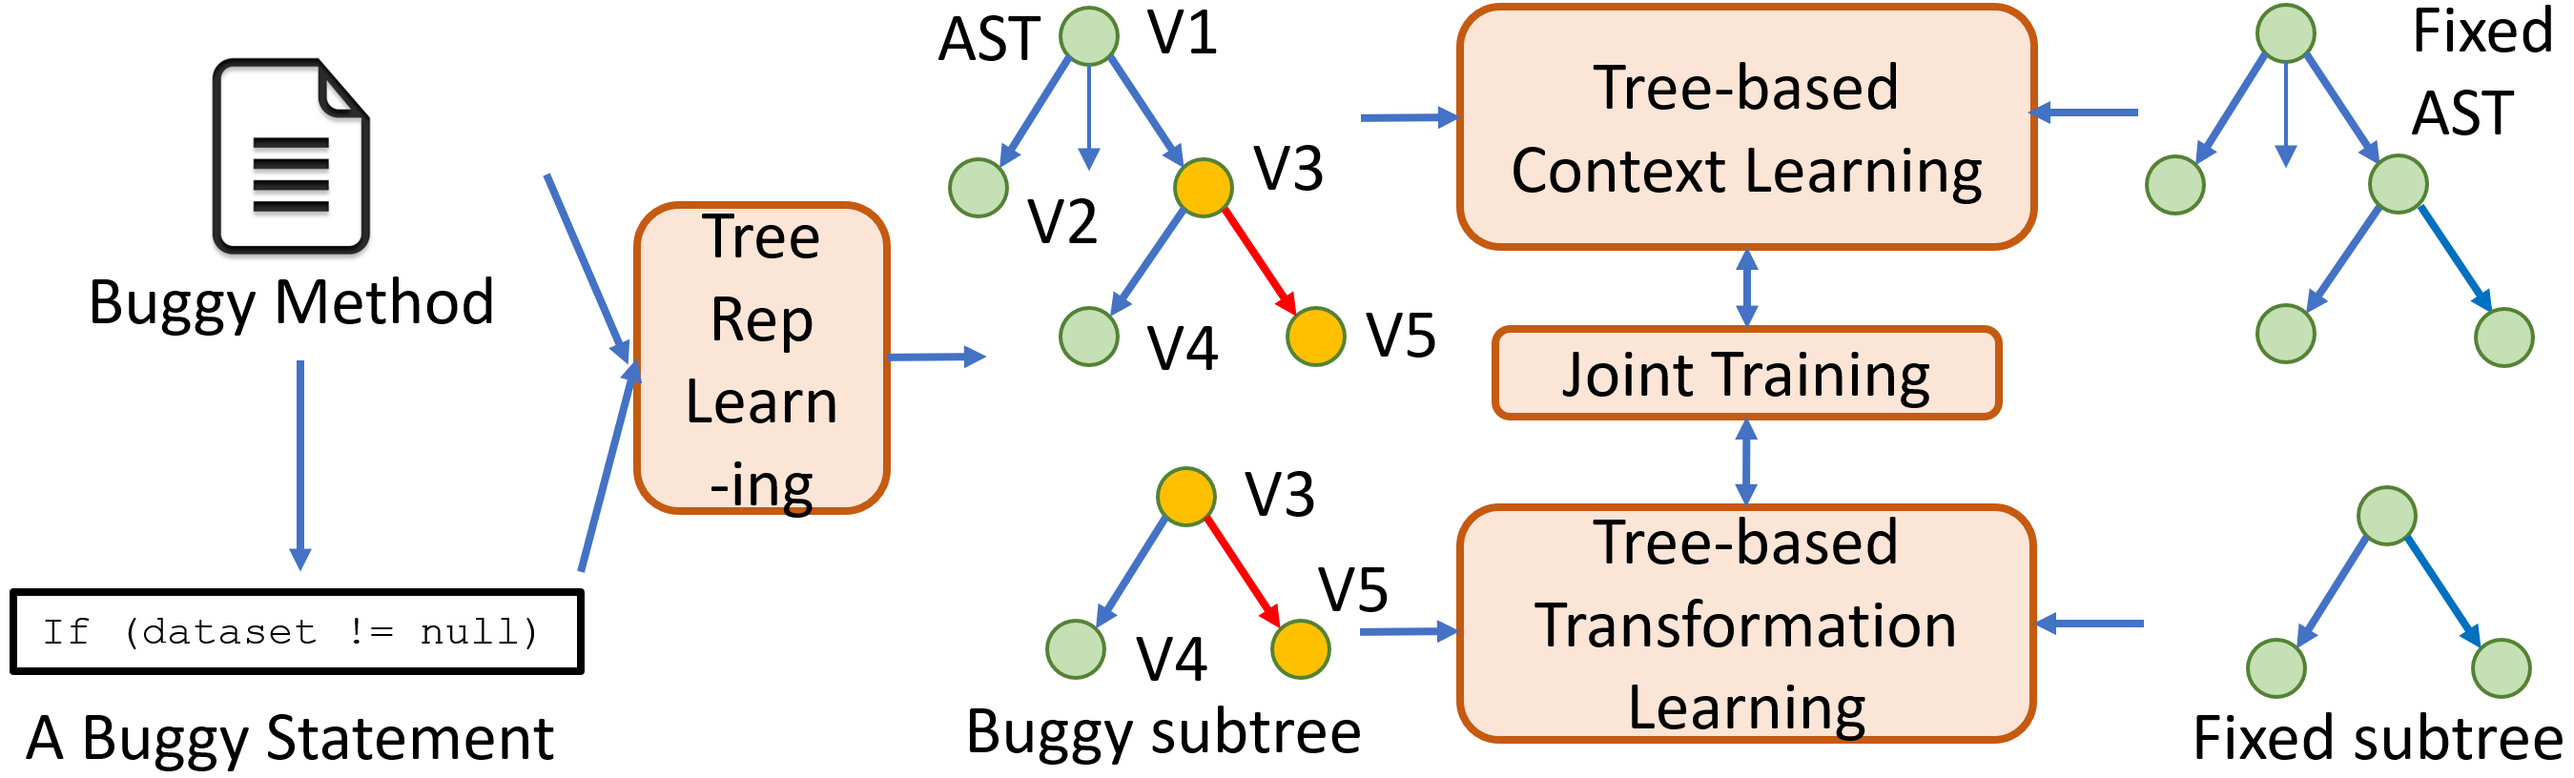
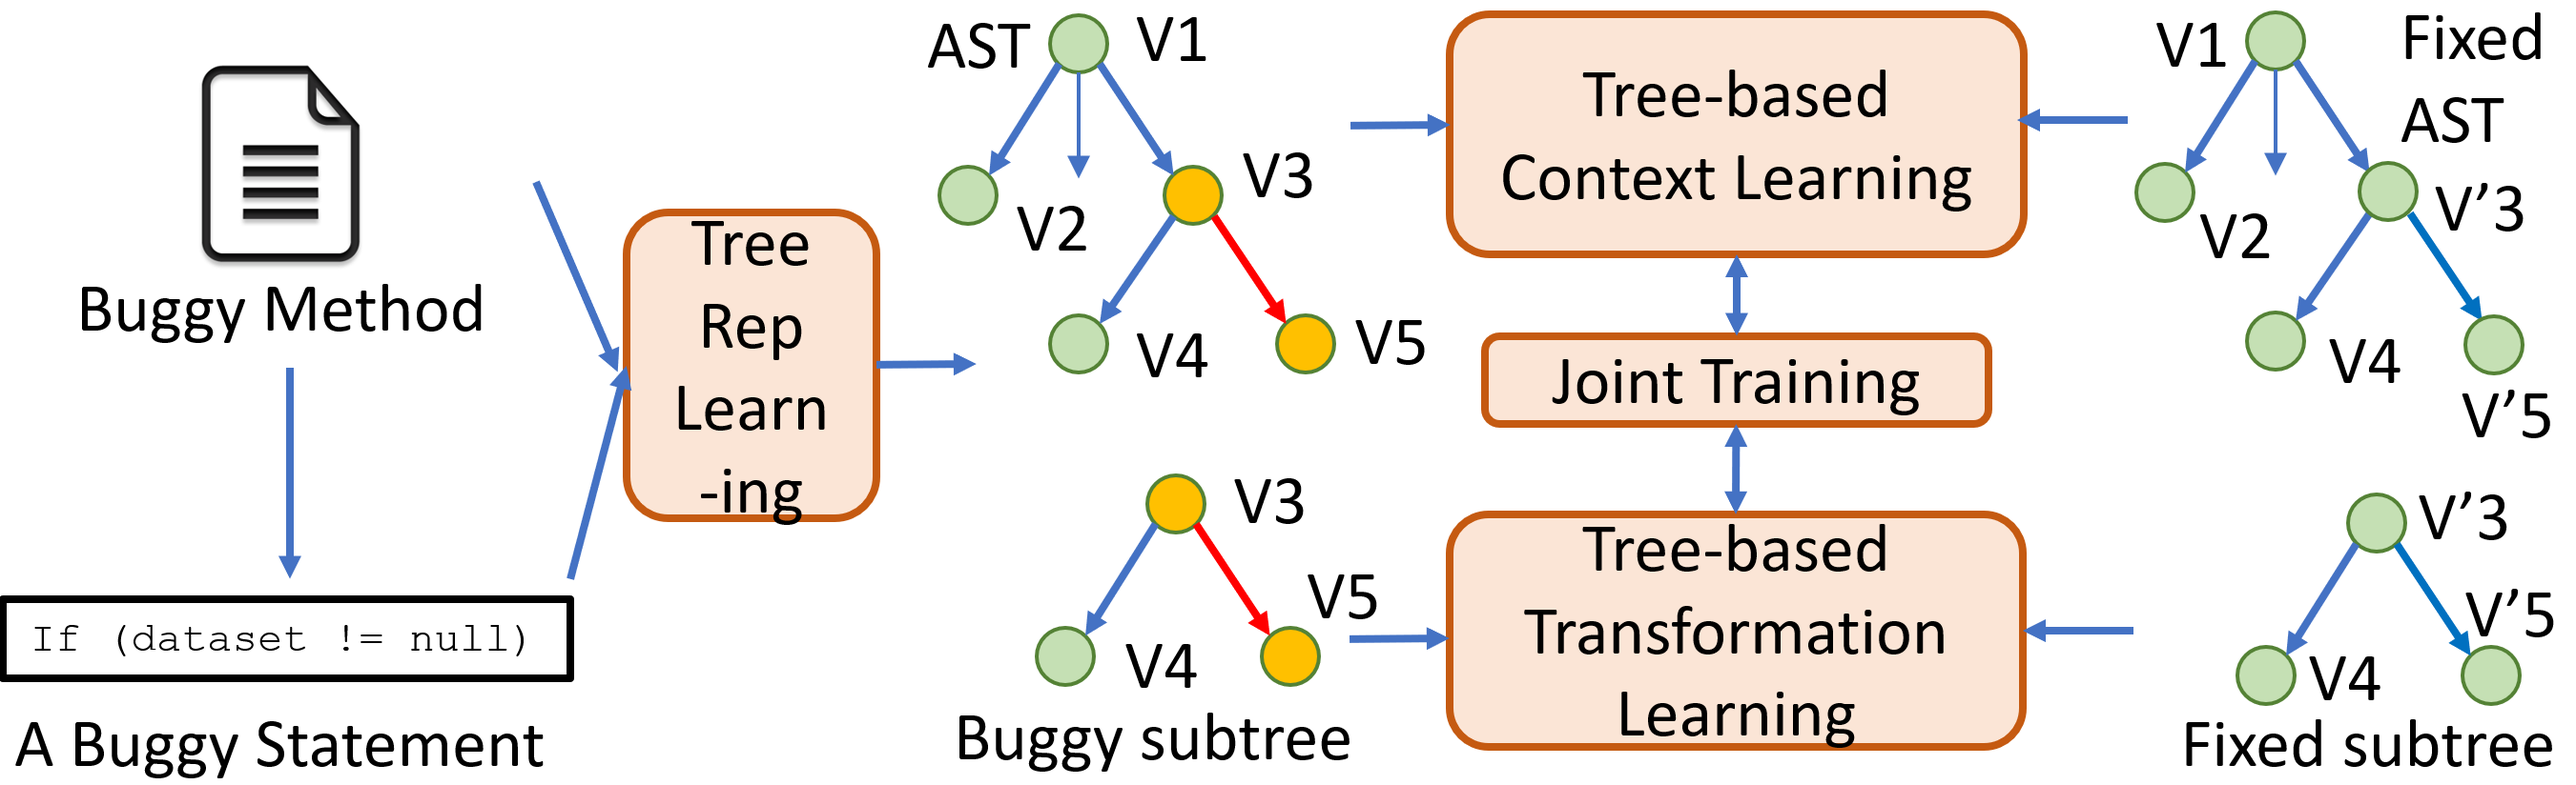
up to dual learning step

diff --git a/sections/approaches_step_1.tex b/sections/approaches_step_1.tex
@@ -1,17 +1,83 @@
-\section{Tree Extraction}
+\section{Tree-based Representation Learning}
 
-\begin{figure}[t]
-	\centering
-	\includegraphics[width=3.2in]{graphs/tree_extraction.png}
-	\caption{Abstract Syntax Tree Extraction Example}
-	\label{tree-extraction}
-\end{figure}
+%\begin{figure}[t]
+%	\centering
+%	\includegraphics[width=3.2in]{graphs/tree_extraction.png}
+%	\caption{Abstract Syntax Tree Extraction Example}
+%	\label{tree-extraction}
+%\end{figure}
 
+The goal of this step is to take the source code under study and to
+build the tree-based vector representations (embeddings).
 
-The first step of the \tool is the tree extraction step designed to extract abstract syntax tree (AST) from the source code. It accepts the buggy method with the changed statements inside as input. The output of this step is the extracted AST for the whole buggy method and the extracted subtree of AST that represents the changed statements.
+\subsection{AST Building and Pairing}
 
-Specifically, for a buggy method $m$, \tool uses the Java package JDT \cite{JDT} to generate the AST $Tree_m$ to represent the buggy method. And for a buggy statement $s$ in the buggy method, \tool uses the subtree of AST $Tree_s$ that exactly covers the statement $s$ to represent the buggy statement. For example, in Figure \ref{tree-extraction}, the AST in the left represents the buggy method in Figure \ref{fig:motiv}, and the right subtree of AST in Figure \ref{tree-extraction} represents the buggy statement. If there is more than one buggy statement in the buggy method $m$, \tool generates multiple subtree of AST to represent each buggy statement.
+First, for a buggy method $M$, we use Java JDT~\cite{JDT} to parse the
+code to produce the AST for $M$. We also identify the subtree $T_s$
+corresponding to each buggy statement $s$. If there are multiple buggy
+statements in $M$, we generate multiple AST subtrees for them.
+We use each of the buggy statements to train the context learning
+and code transformation models.
 
-Also, when training the model, \tool needs ground truth to let the model learn the parameters, \tool also generates the AST $Tree_{mf}$ to represent the fixed method $m_f$ and the subtree of AST $Tree_{sf}$ to represent the fixed statement $s_f$. Here, $m_f$ is the after fixing version of buggy method $m$, and $s_f$ is the after fixing version of buggy statement $s$. Thus, \tool uses the AST and subtree of AST for fixed method and fixed statement as the ground truth to train the model parameters.
+Second, to train the contex learning model (\code{CCL}), we need the
+two ASTs for the buggy method $M$ and the corresponding fixed version
+of $M$. This is straightforward to collect them in the training
+dataset and build the ASTs before and after the fix.  However, as
+shown in Figure~\ref{overview-training}, to train the tree-based code
+transformation learning model (\code{CTL}), we need to identify the
+corresponding fixed subtree for a buggy subtree $T_s$ of a buggy
+statement under consideration. To do so, we use a tree differencing
+tool, named CPatMiner~\cite{nguyen2019graph}, to derive the fixing
+changes. If a subtree corresponds to a statement, let us call it {\em
+  S-subtree}. From the result of CPatMiner, we use the following rules
+to pair a buggy subtree with the corresponding fixed subtree:
 
-For the buggy method, $m$ and corresponding fixed method $m_f$, \tool can easily find them from the dataset based on the true labels. However, pairing the buggy statement $s$ with its corresponding fixed version $s_f$ is not easy as the methods. To solve this problem, we use an existing approach CPatMiner \cite{nguyen2019graph} to process the fixing changes. Based on the results from CPatMiner, we pair the buggy statement $s$ with the corresponding fixed statement $s_f$ within the three following conditions. 1) If the buggy statement $s$ needs to be deleted, we pair $s$ with an empty statement. 2) if the buggy statement $s$ needs to be updated, we pair $s$ with the updated statement. 3) If there needs to insert a new statement as the fixing, we check the AST for the method $m$ first. And we pair the parent node with the inserted statement $s_f$ if the parent node representing the other statement, or we pair an empty statement with the inserted statement $s_f$. 
+1. A buggy subtree ($S$-subtree) is a subtree with
+\code{update} or \code{delete}.
+
+2. If a $S$-subtree is \code{deleted}, we pair it with an empty tree.
+
+3. If a buggy $S$-subtree is marked as \code{update}, (i.e, it is
+{\em updated} or its children node(s) could be {\em inserted, deleted} or {\em
+  updated}), we paired this buggy $S$-subtree with its corresponding
+fixed $S$-subtree.
+%produced by CPatMiner.
+
+4. If a $S$-subtree is \code{inserted} and its parent node is another
+$S$-subtree, we pair it with that parent $S$-subtree.  If the parent
+node is not an $S$-subtree, we pair an empty tree to the corresponding
+inserted $S$-subtree.
+
+%The first step of the \tool is the tree extraction step designed to extract abstract syntax tree (AST) from the source code. It accepts the buggy method with the changed statements inside as input. The output of this step is the extracted AST for the whole buggy method and the extracted subtree of AST that represents the changed statements.
+
+%Specifically, for a buggy method $m$, \tool uses the Java package JDT \cite{JDT} to generate the AST $Tree_m$ to represent the buggy method. And for a buggy statement $s$ in the buggy method, \tool uses the subtree of AST $Tree_s$ that exactly covers the statement $s$ to represent the buggy statement. For example, in Figure \ref{tree-extraction}, the AST in the left represents the buggy method in Figure \ref{fig:motiv}, and the right subtree of AST in Figure \ref{tree-extraction} represents the buggy statement. If there is more than one buggy statement in the buggy method $m$, \tool generates multiple subtree of AST to represent each buggy statement.
+
+%Also, when training the model, \tool needs ground truth to let the model learn the parameters, \tool also generates the AST $Tree_{mf}$ to represent the fixed method $m_f$ and the subtree of AST $Tree_{sf}$ to represent the fixed statement $s_f$. Here, $m_f$ is the after fixing version of buggy method $m$, and $s_f$ is the after fixing version of buggy statement $s$. Thus, \tool uses the AST and subtree of AST for fixed method and fixed statement as the ground truth to train the model parameters.
+
+%For the buggy method, $m$ and corresponding fixed method $m_f$, \tool can easily find them from the dataset based on the true labels. However, pairing the buggy statement $s$ with its corresponding fixed version $s_f$ is not easy as the methods. To solve this problem, we use an existing approach CPatMiner \cite{nguyen2019graph} to process the fixing changes. Based on the results from CPatMiner, we pair the buggy statement $s$ with the corresponding fixed statement $s_f$ within the three following conditions. 1) If the buggy statement $s$ needs to be deleted, we pair $s$ with an empty statement. 2) if the buggy statement $s$ needs to be updated, we pair $s$ with the updated statement. 3) If there needs to insert a new statement as the fixing, we check the AST for the method $m$ first. And we pair the parent node with the inserted statement $s_f$ if the parent node representing the other statement, or we pair an empty statement with the inserted statement $s_f$.
+
+\subsection{AST Node Representation Learning}
+
+To provide the compatible inputs for \code{CCL} and \code{CTL} models,
+we need to perform an AST node representation learning process in
+which each node in the AST subtree or the AST of the method is
+replaced by the vector representation (embedding) of the node. To
+achieve that, we first flatten the abstract syntax (sub)tree under
+consideration by a deep-first-search traversal to obtain a sequence of
+tokens. For the case of an AST subtree, we consider the sequence of
+tokens of a $S$-subtree as a sentence. For the case of the AST of the
+method, we consider the sequence of tokens for the method as a
+sentence. We then use a word embedding technique, named
+GloVe~\cite{pennington2014glove} to run on those sentences to build a
+vector representation for each token, i.e., each AST node in the AST
+subtree or in the AST of the method. We used GloVe because it can
+capture well the co-occurrences among
+tokens~\cite{pennington2014glove}. After running GloVe, we replace
+each node in the (sub)tree with its GloVe vector representation (see
+Figures~\ref{overview-training} and~\ref{overview-fixing}). Similarly,
+we replace each node with its vector in the AST of the fixed method
+and in the AST subtree of the fixed~statement.
+
+%To make the dual learning program repair model can take information from the input, \tool firstly needs to vectorize the AST and the subtree of AST by using the node representation learning. 
+
+%For a given tree $T$, \tool firstly uses the deep traversal to covert it into a sequence of tokens $S$. Here, $T$ could be $Tree_m$, $Tree_{mf}$, $Tree_s$, and $Tree_{sf}$. And then, \tool uses the famous technique GloVe \cite{pennington2014glove} to transform each AST node into a vector. The GloVe is a great tool for vectorizing the sequence of tokens by considering co-occurrence between different tokens. It can help predict for the often appeared together tokens. That's the reason why to choose it here to vectorize the tree $T$. For example, in Figure \ref{program-repair}, the AST node $N1-N5$ has been embedded into the vector $V1-V5$ in the top raw.

diff --git a/sections/approaches_step_2.tex b/sections/approaches_step_2.tex
@@ -10,11 +10,7 @@
 After having the $Tree_m$, $Tree_{mf}$ pair and $Tree_s$, $Tree_{sf}$ pair from the first step, \tool uses them as the input and the ground truth to train the dual learning program repair model in this step. \tool uses the generated after fixing AST $Tree'_m$ and after fixing subtree of AST $Tree'_s$ as output for this step when making the prediction. Specifically, there are two small steps, including the AST node representation learning and the dual learning framework.
 
 
-\subsection{AST Node Representation Learning}
 
-To make the dual learning program repair model can take information from the input, \tool firstly needs to vectorize the AST and the subtree of AST by using the node representation learning. 
-
-For a given tree $T$, \tool firstly uses the deep traversal to covert it into a sequence of tokens $S$. Here, $T$ could be $Tree_m$, $Tree_{mf}$, $Tree_s$, and $Tree_{sf}$. And then, \tool uses the famous technique GloVe \cite{pennington2014glove} to transform each AST node into a vector. The GloVe is a great tool for vectorizing the sequence of tokens by considering co-occurrence between different tokens. It can help predict for the often appeared together tokens. That's the reason why to choose it here to vectorize the tree $T$. For example, in Figure \ref{program-repair}, the AST node $N1-N5$ has been embedded into the vector $V1-V5$ in the top raw.
 
 \subsection{Dual Learning Framework}
 
